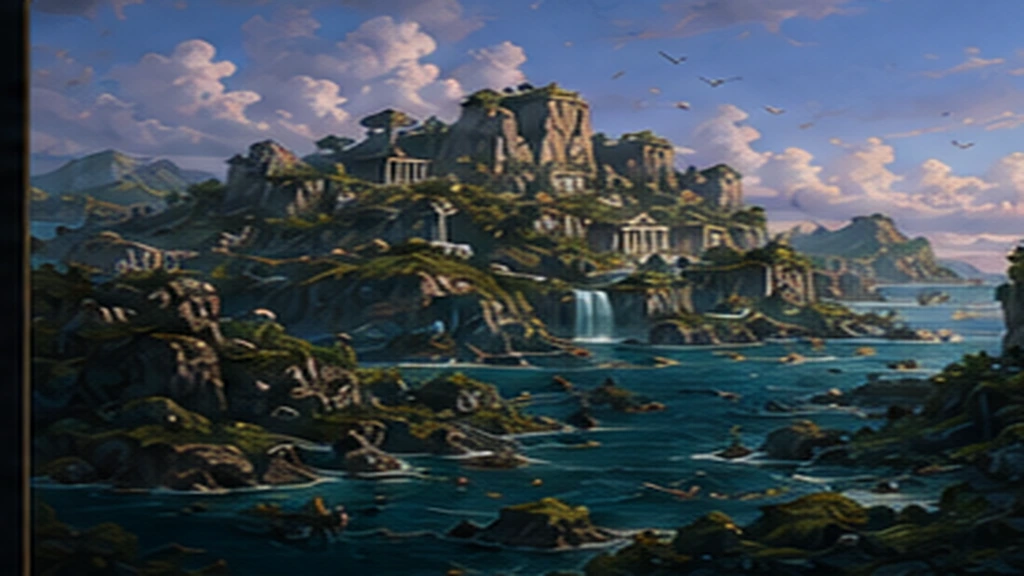
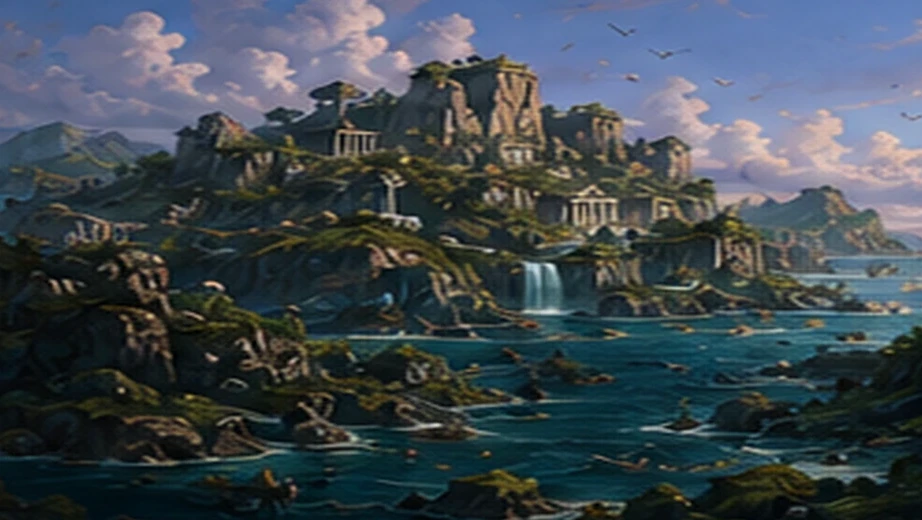
fix(ui): paleta unificada del lobby, detalles y mundos sin bordes pintados
Barrido final de colores: fuera lilas (#9b8db5 en teaser/hints), naranjas
(#ff9d7a) y teals legacy (#75eadb) — títulos/rombos/filetes en la familia
gold del pack, teaser y summaryCards en gold/teal/cream, entryHint y
questTemper en pergamino. El arte de mundos traía un MARCO PINTADO (banda
negra + filete en los bordes): recortado 5% por lado en el asset (una sola
vez) + zoom CSS 106% de remate — las cards ya no muestran bordes negros.

diff --git a/apps/web/src/styles/app.css b/apps/web/src/styles/app.css
@@ -3717,6 +3717,30 @@ img[src^="/assets/companions/"] { background: none !important; border: 0 !import
 .lobbyShell .builderCardHead { gap: 10px; }
 .lobbyShell .builderCardHead img:not([src^="/assets/companions/"]) { width: 48px !important; height: 48px !important; border-radius: 50% !important; border: 2px solid rgba(212,175,55,.45) !important; object-fit: cover; }
 .lobbyShell .builderCardHead img[src^="/assets/companions/"] { width: 48px !important; height: 48px !important; }
+/* ── Barrido final de paleta del lobby (2026-07-07): fuera lilas, naranjas y
+   teals legacy — todo a gold/cream/teal del pack. ─────────────────────────── */
+.lobbyStepTitle h2 { color: var(--tq-gold-hi); }
+.stepDiamond { border-color: rgba(212,175,55,.75); box-shadow: 0 0 12px rgba(212,175,55,.28); }
+.stepDiamond span { color: var(--tq-gold-hi); }
+.stepRule { background: linear-gradient(90deg, rgba(212,175,55,.5), rgba(212,175,55,.05)); }
+.stepRule::before { color: rgba(212,175,55,.7); }
+.lobbyShell .entryHint { color: rgba(234,223,198,.7); }
+.lobbyShell .quickChoiceGroup > span { color: rgba(212,175,55,.95); }
+.lobbyShell .portraitStatus { color: var(--tq-gold-hi); }
+.lobbyShell .storyForgeError { color: #e8a27c; }
+.lobbyShell .heroSummaryInfo .heroSummaryPet { color: #8fdcd2; border-color: rgba(46,196,182,.4); background: rgba(6,24,28,.55); }
+.lobbyShell .forgedTeaser { border-color: rgba(212,175,55,.32); background: linear-gradient(175deg, rgba(24,20,8,.55), rgba(5,10,18,.92)); border-radius: 12px; }
+.lobbyShell .forgedTeaser strong { color: var(--tq-gold-hi); font-family: Georgia, serif; font-size: 15px; }
+.lobbyShell .forgedTeaser em { color: rgba(212,175,55,.85); }
+.lobbyShell .forgedTeaser p { color: rgba(234,223,198,.88); }
+.lobbyShell .summaryCard { border-color: rgba(46,196,182,.3); background: rgba(5,20,24,.5); border-radius: 10px; }
+.lobbyShell .summaryCard em { color: var(--tq-teal); }
+.lobbyShell .summaryCard p { color: var(--tq-cream); }
+.lobbyShell .summaryCard.mission { border-color: rgba(212,175,55,.4); background: rgba(30,22,6,.45); }
+.lobbyShell .questTemper { color: rgba(234,223,198,.85); }
+/* Cards de mundo: leve zoom extra (los assets ya vienen recortados sin su marco
+   pintado; esto remata cualquier resto de borde en los extremos). */
+.worldCard.hasArt { background-size: 106% auto !important; background-position: center 40% !important; }
 /* ── Dimensiones fieles de imágenes (2026-07-07) ────────────────────────────── */
 /* Mundos: el arte es 1024×576 — la card mantiene 16:9 para que el encuadre del
    cuadro sea el mismo a cualquier ancho/zoom (antes quedaba una franja de ~3:1). */
